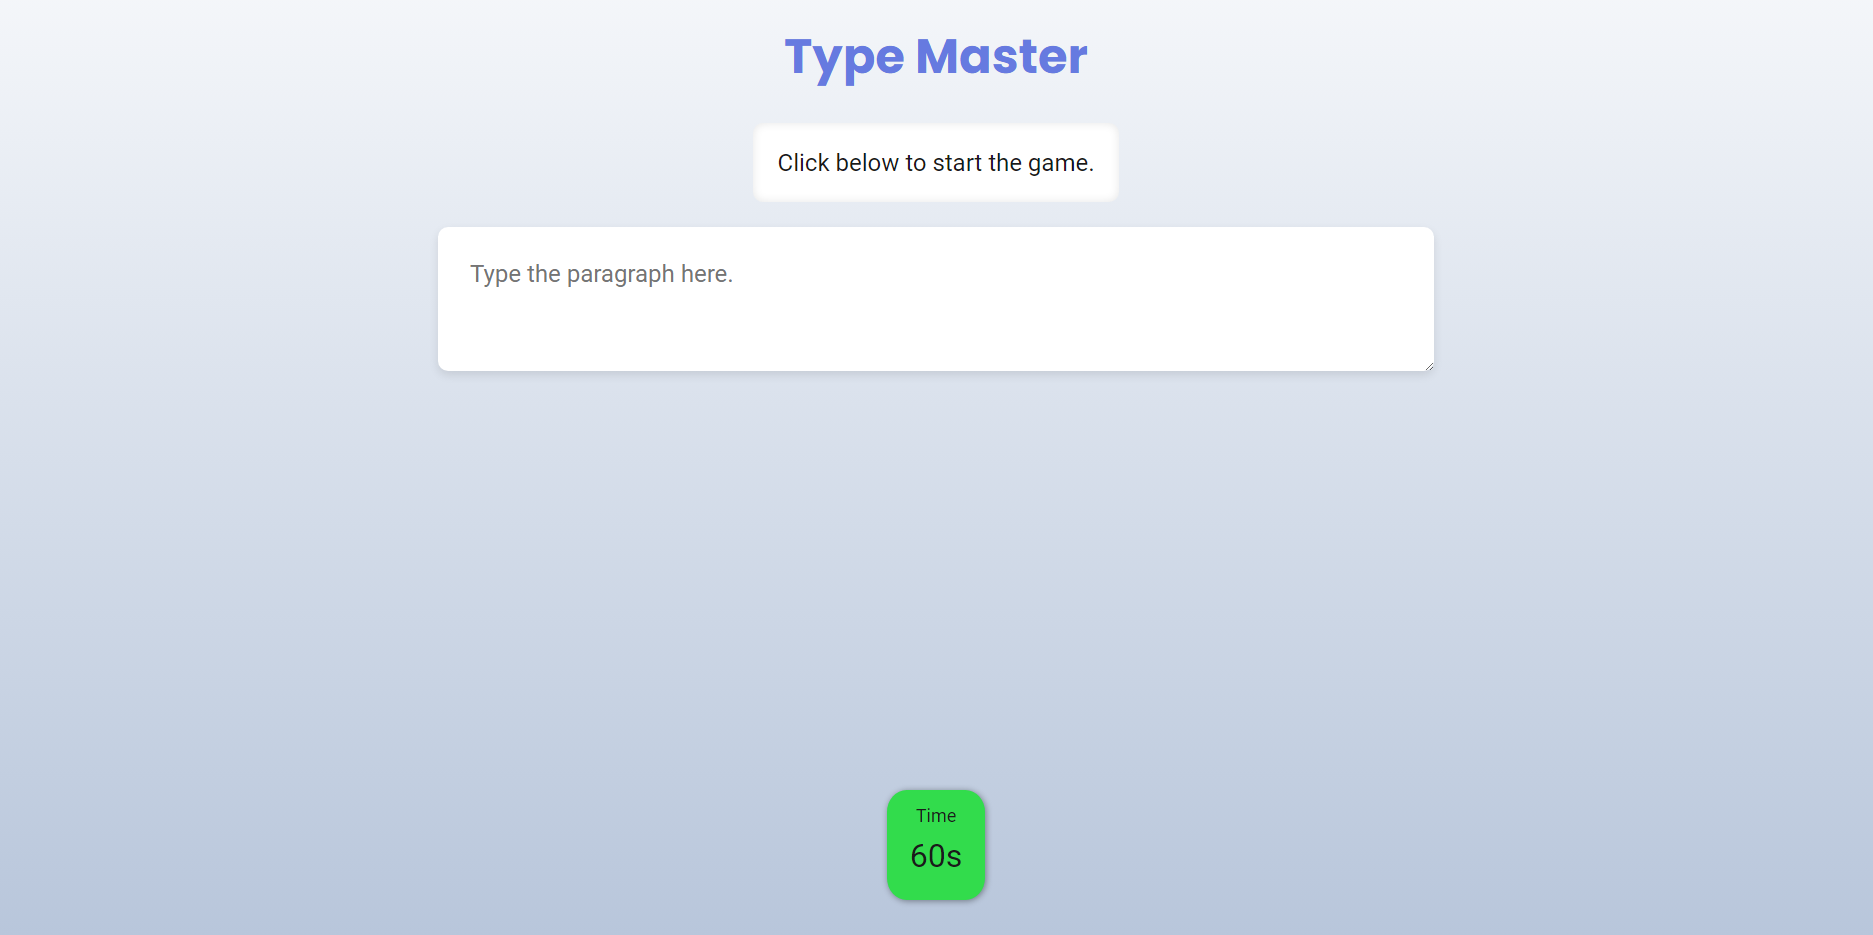
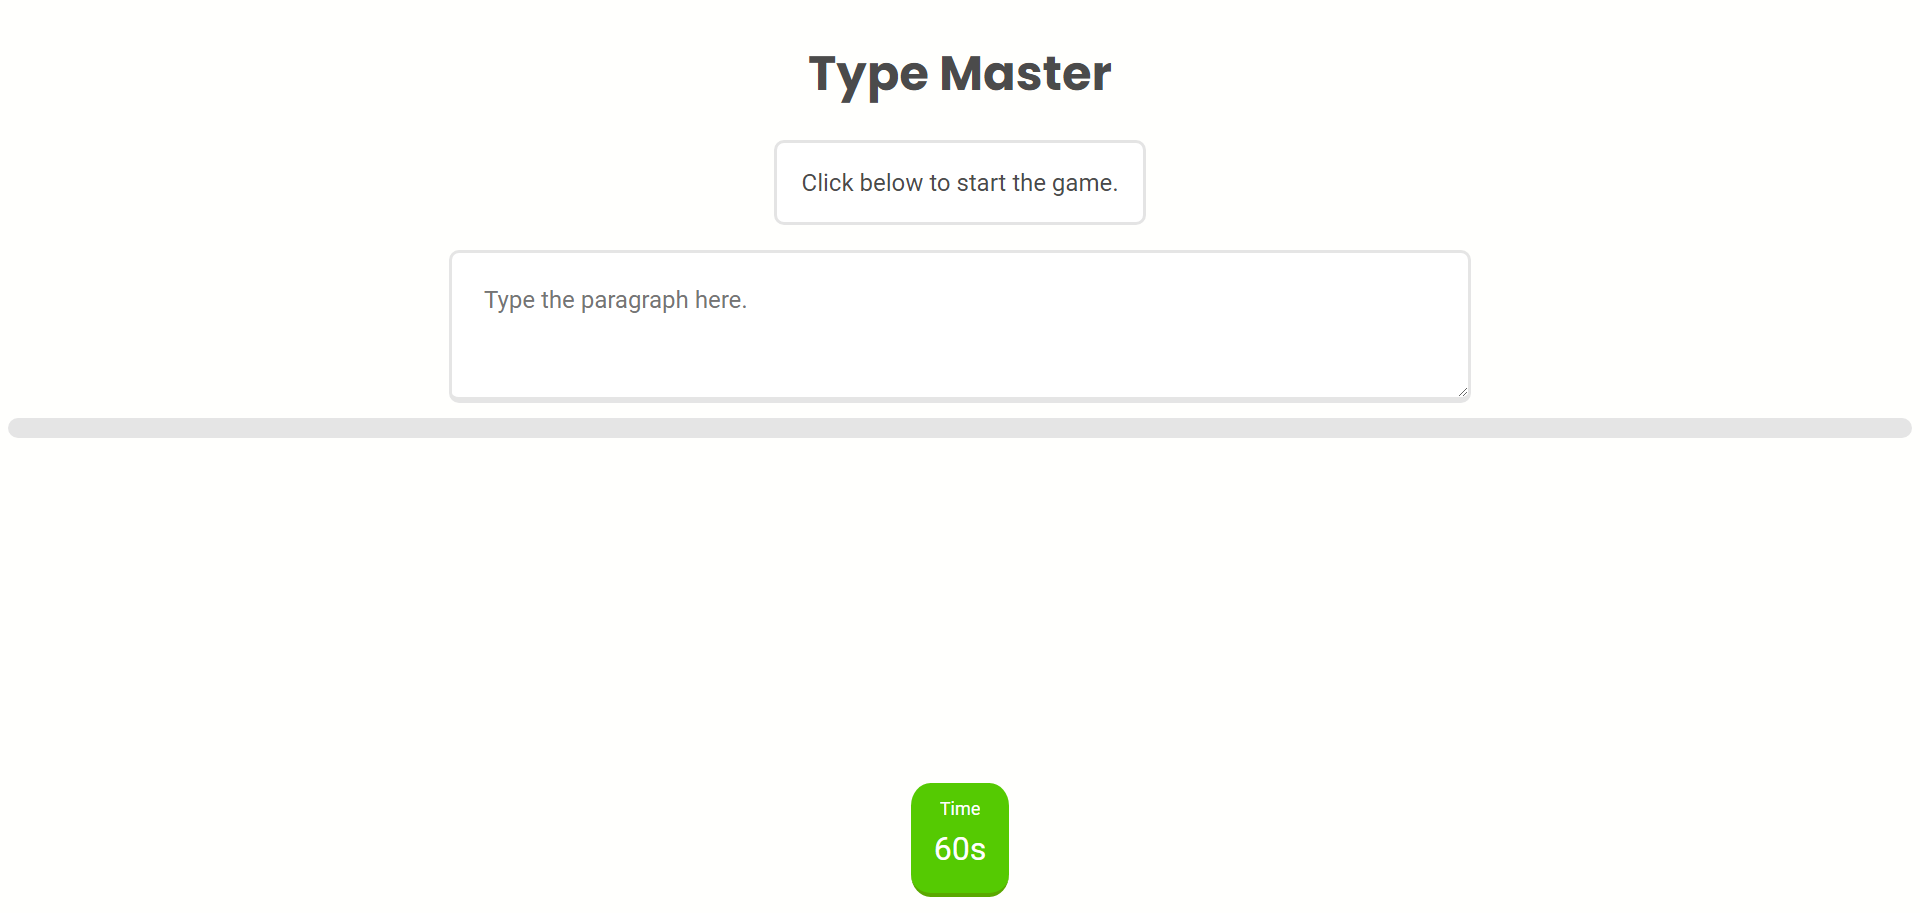
update ui changes

diff --git a/style.css b/style.css
@@ -1,5 +1,5 @@
 body {
-  background: linear-gradient(#f5f7fa, #b8c6db);
+  background: #fffffd;
   color: #1a1a1a;
   text-align: center;
   height: 100vh;
@@ -17,7 +17,7 @@ body {
   margin-bottom: 20px;
   font-size: 3rem;
   font-family: "Poppins", sans-serif;
-  color: #667ae0;
+  color: #4b4b4b;
 }
 
 #paragraph {
@@ -27,26 +27,27 @@ body {
   margin: 10px;
   padding: 25px;
   border-radius: 10px;
-  box-shadow: inset 0 0 10px rgb(0 0 0 / 10%);
   cursor: not-allowed;
+  border: 3px solid #e4e4e4;
+  color: #4b4b4b;
 }
 
 #userInput {
   background-color: #fff;
-  color: #444;
+  color: #505050;
   height: 80px;
   width: 50%;
   font-size: 1.5rem;
   margin: 15px;
   padding: 2rem;
-  border: none;
   border-radius: 10px;
   font-family: "Roboto", sans-serif;
-  box-shadow: 0 4px 10px rgb(0 0 0 / 10%);
+  border: 3px solid #e5e5e5;
+  border-bottom-width: 6px;
 }
 
 #userInput:focus {
-  outline-color: #667ae0;
+  outline-color: #e5e5e5;
 }
 
 #popup {
@@ -90,20 +91,24 @@ body {
   font-family: "Roboto", sans-serif;
   border-radius: 20%;
   font-size: 18px;
-  box-shadow: 1px 1px 6px rgb(0 0 0 / 40%);
   transition: all 0.5s;
+  font-weight: 400;
+  color: #fffffd;
 }
 
 #timer.more {
-  background-color: hsl(129, 71%, 53%);
+  background-color: hsl(95, 98%, 40%);
+  border-bottom: 4px solid hsl(88deg 100% 33%);
 }
 
 #timer.mid {
-  background-color: hsl(14, 71%, 53%);
+  background-color: hsl(47deg 100% 50%);
+  border-bottom: 4px solid hsl(43deg 99% 45%);
 }
 
 #timer.less {
-  background-color: hsl(0, 71%, 53%);
+  background-color: hsl(360deg 100% 65%);
+  border-bottom: 4px solid hsl(0deg 70.25% 52.55%);
 }
 
 #errors,
@@ -166,11 +171,11 @@ body {
   text-transform: uppercase;
   text-align: center;
   width: 100%;
-  color: #2e2e2e;
+  color: #472b00;
   padding: 10px 15px;
   font-weight: 600;
   font-size: 16px;
-  background-color: #ffc600;
+  background-color: #ffc801;
   border-radius: 4px;
 }
 
@@ -218,16 +223,24 @@ body {
   transition: opacity 0.3s;
 }
 
+#progressContainer {
+  background: #e5e5e5;
+  border-radius: 20px;
+  height: 20px;
+  width: 100%;
+}
+
 #progressBar.active {
-  background-color: #476ce4;
-  height: 4px;
+  background-color: #57cc02;
+  height: 20px;
   width: 100%;
   animation: grow 60s linear;
   transform-origin: left;
+  border-radius: 20px;
 }
 
 @keyframes grow {
   0% {
-    transform: scaleX(0);
+    width: 0%;
   }
 }

diff --git a/index.html b/index.html
@@ -10,7 +10,7 @@
       content="A Simple Typing Test Application written in Vanilla Javascript."
     />
     <meta name="author" content="Thiruvalluvan" />
-    <link rel="stylesheet" href="style.css" />
+    <link rel="stylesheet" href="./style.css" />
     <link rel="preconnect" href="https://fonts.googleapis.com" />
     <link rel="preconnect" href="https://fonts.gstatic.com" crossorigin />
     <link
@@ -29,7 +29,9 @@
         id="userInput"
         placeholder="Type the paragraph here."
       ></textarea>
-      <div id="progressBar"></div>
+      <div id="progressContainer">
+        <div id="progressBar"></div>
+      </div>
 
       <div id="timer" class="more">
         <div>Time</div>

diff --git a/readme.md b/readme.md
@@ -2,6 +2,6 @@
 
 This is a Simple Typing Test Application written in Vanilla Javascript.
 
-![Screenshot 01](https://github.com/Thiru-Coder/type-master/assets/113886456/239b9f15-2fdf-4a0a-8c10-b0706d59e835)
-![Screenshot 02](https://github.com/Thiru-Coder/type-master/assets/113886456/a32a9ed1-ed77-47ed-97c2-31c775d8a2a8)
-![Screenshot 03](https://github.com/Thiru-Coder/type-master/assets/113886456/5acec7ce-9a31-40ea-b805-1edbd2cf3467)
+![Screenshot 01](https://github.com/Thiru-Coder/type-master/blob/main/screenshots/01.png)
+![Screenshot 02](https://github.com/Thiru-Coder/type-master/blob/main/screenshots/02.png)
+![Screenshot 03](https://github.com/Thiru-Coder/type-master/blob/main/screenshots/03.png)
